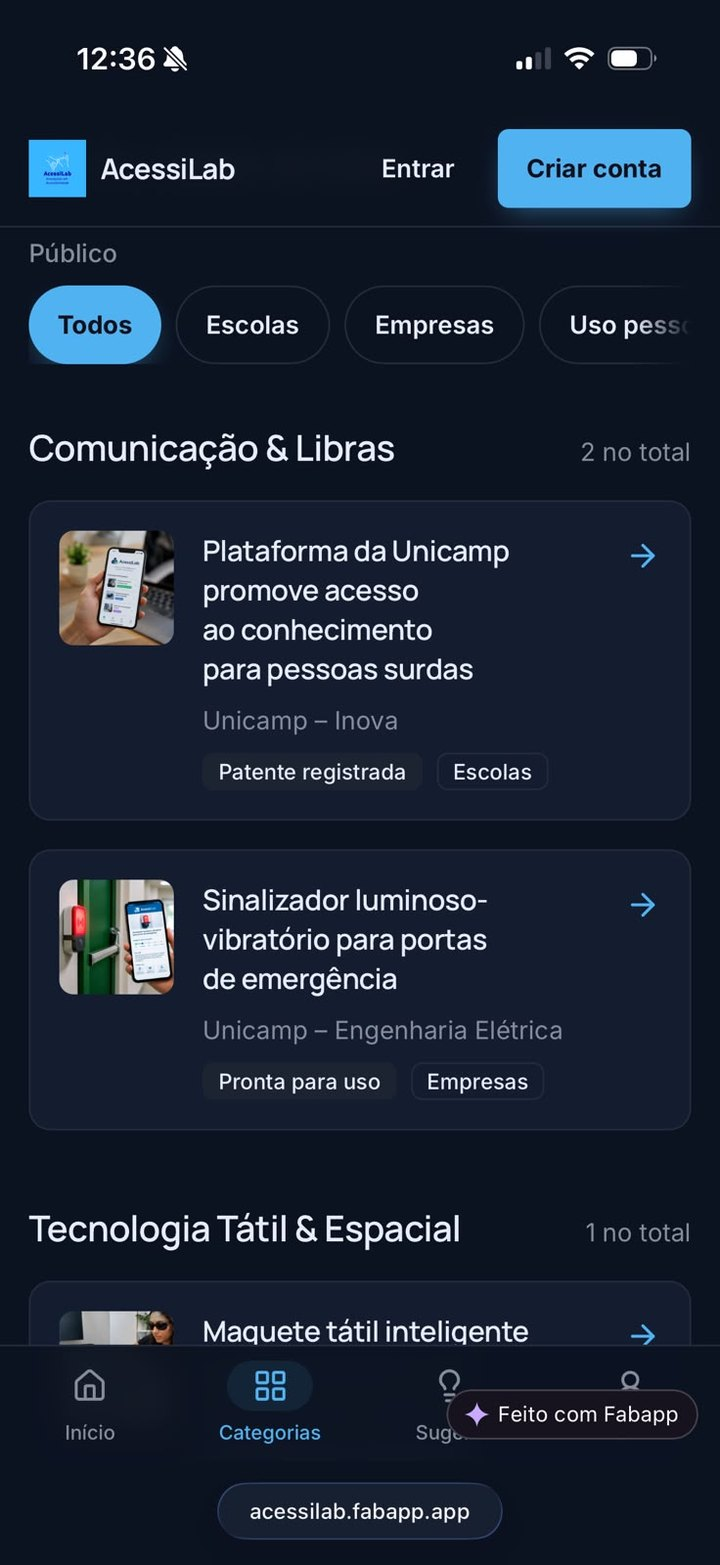
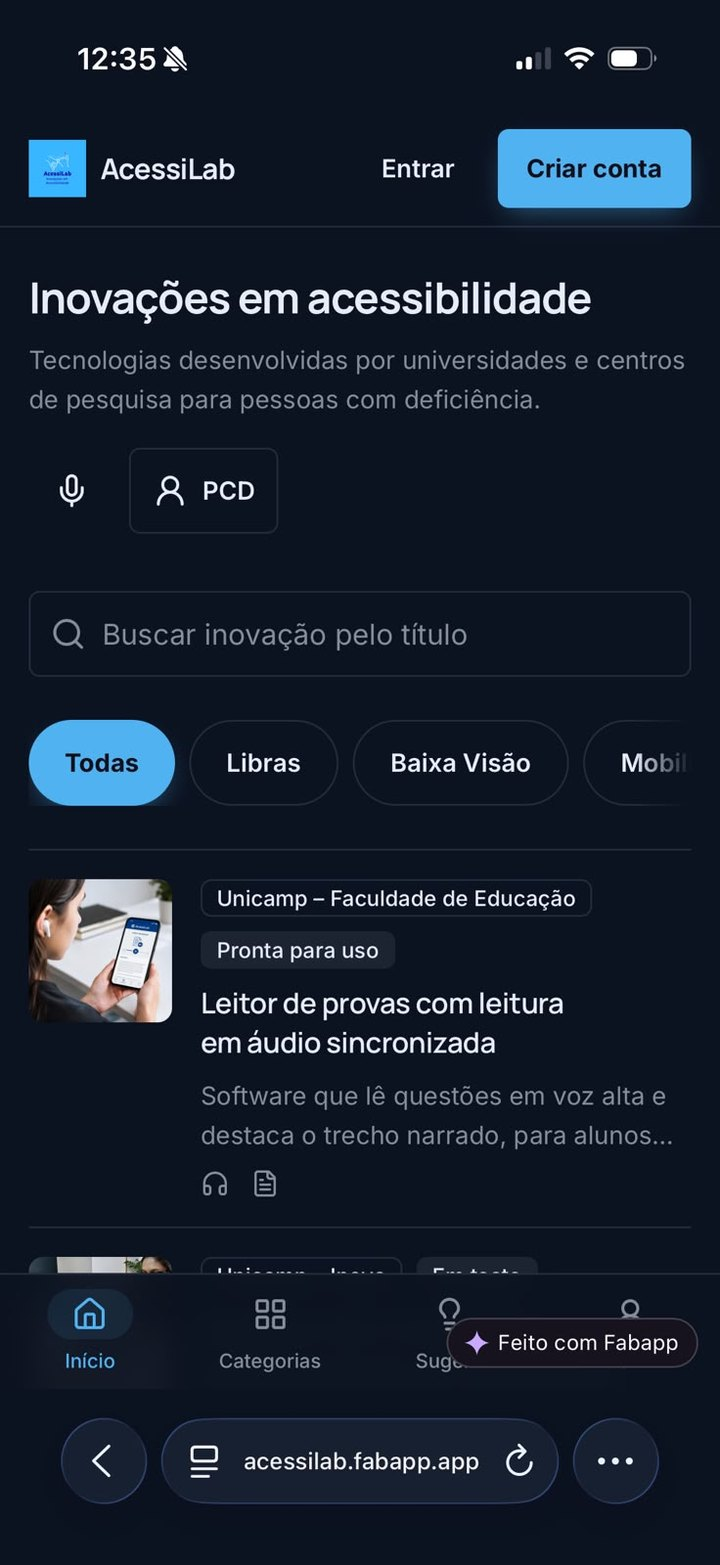
Add files via upload

diff --git a/index.html b/index.html
@@ -178,9 +178,9 @@
       <div class="case__media">
         <p class="mono medialabel">Mídia</p>
         <div class="gallery gallery--phones">
-          <figure class="shot shot--phone"><img data-src="assets/img/cases/a-1" alt="Tela inicial do AcessiLab" data-ph="Print do app · 1080×1920"></figure>
-          <figure class="shot shot--phone"><img data-src="assets/img/cases/a-2" alt="Lista de inovações no AcessiLab" data-ph="Print do app · 1080×1920"></figure>
-          <figure class="shot shot--phone"><img data-src="assets/img/cases/a-3" alt="Detalhe de uma inovação no AcessiLab" data-ph="Print do app · 1080×1920"></figure>
+          <figure class="shot shot--phone"><img data-src="assets/img/cases/a-1" alt="Tela inicial do AcessiLab: busca de inovações em acessibilidade com filtros por deficiência" data-ph="Print do app · 1080×1920"><figcaption class="mono">Início</figcaption></figure>
+          <figure class="shot shot--phone"><img data-src="assets/img/cases/a-2" alt="Categorias do AcessiLab: Comunicação e Libras, Tecnologia Tátil e Espacial" data-ph="Print do app · 1080×1920"><figcaption class="mono">Categorias</figcaption></figure>
+          <figure class="shot shot--phone"><img data-src="assets/img/cases/a-3" alt="Detalhe do Leitor de provas com leitura em áudio, com opções de áudio e Libras" data-ph="Print do app · 1080×1920"><figcaption class="mono">Detalhe com áudio e Libras</figcaption></figure>
         </div>
       </div>
     </div>
@@ -194,7 +194,7 @@
         <h3 class="h3">Requisições de RH automatizadas</h3>
         <p class="mono meta">RH LATAM · dsm-firmenich</p>
       </div>
-      <span class="lgpd mono"><svg class="ico"><use href="#lock"/></svg> Demonstração com dados fictícios — dados reais protegidos por LGPD</span>
+      <span class="lgpd mono"><svg class="ico"><use href="#lock"/></svg> Prints reais, sem dados pessoais — em conformidade com a LGPD</span>
     </header>
     <div class="case__body">
       <dl class="psfr">
@@ -256,7 +256,7 @@
         <h3 class="h3">132 aditivos em 1 clique</h3>
         <p class="mono meta">RH LATAM · dsm-firmenich</p>
       </div>
-      <span class="lgpd mono"><svg class="ico"><use href="#lock"/></svg> Demonstração com dados fictícios — dados reais protegidos por LGPD</span>
+      <span class="lgpd mono"><svg class="ico"><use href="#lock"/></svg> Prints reais, sem dados pessoais — em conformidade com a LGPD</span>
     </header>
     <div class="case__body">
       <dl class="psfr">
@@ -283,8 +283,9 @@
           <div class="flow__link"></div>
           <div class="flow__node flow__node--end"><b>Arquiva</b><small>documento assinado na pasta</small></div>
         </div>
-        <div class="gallery gallery--single">
-          <figure class="shot"><img data-src="assets/img/cases/c-1" alt="Fluxo no Power Automate: lê a tabela do Excel e, para cada linha, cria e arquiva o documento no SharePoint" data-ph="Print do fluxo · 1600×1000"><figcaption class="mono">Fluxo real no Power Automate — Excel → SharePoint, um documento por colaborador</figcaption></figure>
+        <div class="gallery">
+          <figure class="shot"><img data-src="assets/img/cases/c-1" alt="Fluxo no Power Automate: lê a tabela do Excel e, para cada linha, cria e arquiva o documento no SharePoint" data-ph="Print do fluxo · 1600×1000"><figcaption class="mono">Fluxo: Excel → SharePoint, um documento por linha</figcaption></figure>
+          <figure class="shot"><img data-src="assets/img/cases/c-2" alt="Modelo de documento com campos variáveis entre colchetes, como local de trabalho e nome do empregado" data-ph="Print do modelo · 1600×1000"><figcaption class="mono">Modelo com campos preenchidos pela automação</figcaption></figure>
         </div>
       </div>
     </div>
@@ -298,7 +299,7 @@
         <h3 class="h3">Agentes de IA com as políticas de RH</h3>
         <p class="mono meta">RH LATAM · dsm-firmenich</p>
       </div>
-      <span class="lgpd mono"><svg class="ico"><use href="#lock"/></svg> Demonstração com dados fictícios — dados reais protegidos por LGPD</span>
+      <span class="lgpd mono"><svg class="ico"><use href="#lock"/></svg> Prints reais, sem dados pessoais — em conformidade com a LGPD</span>
     </header>
     <div class="case__body">
       <dl class="psfr">
@@ -334,7 +335,7 @@
         <h3 class="h3">Gestão de carreira artística com IA</h3>
         <p class="mono meta">Pedro Bustamante · artista independente · <a class="metalink" href="https://www.youtube.com/channel/UCgmBhIti8OXbRtY2MWeuqDw" target="_blank" rel="noopener">Canal no YouTube <svg class="ico"><use href="#arrow-ur"/></svg></a></p>
       </div>
-      <span class="lgpd mono"><svg class="ico"><use href="#lock"/></svg> Demonstração com dados fictícios — dados reais protegidos por LGPD</span>
+      <span class="lgpd mono"><svg class="ico"><use href="#lock"/></svg> Prints reais, sem dados pessoais — em conformidade com a LGPD</span>
     </header>
     <div class="case__body">
       <dl class="psfr">
@@ -402,7 +403,7 @@
         <h3 class="h3">Agência de marketing · Bazooka</h3>
         <p class="mono meta">Bazooka · Tráfego pago &amp; social media</p>
       </div>
-      <span class="lgpd mono"><svg class="ico"><use href="#lock"/></svg> Demonstração com dados fictícios — dados reais protegidos por LGPD</span>
+      <span class="lgpd mono"><svg class="ico"><use href="#lock"/></svg> Dados de clientes protegidos pela LGPD</span>
     </header>
     <div class="case__body">
       <dl class="psfr">
@@ -457,7 +458,7 @@
     <ol class="linelist">
       <li class="reveal"><span class="num mono">01</span><h3>Ferramentas aprovadas</h3><p>Em contexto corporativo, uso apenas ferramentas homologadas pela empresa, como o Copilot do Microsoft 365.</p></li>
       <li class="reveal"><span class="num mono">02</span><h3>LGPD em primeiro lugar</h3><p>Dados pessoais de colaboradores e clientes não entram em ferramentas abertas.</p></li>
-      <li class="reveal"><span class="num mono">03</span><h3>Demonstrações fictícias</h3><p>Prints e fluxos deste portfólio foram recriados com dados fictícios.</p></li>
+      <li class="reveal"><span class="num mono">03</span><h3>Prints sem dados pessoais</h3><p>Os prints deste portfólio são reais, mas não exibem dados pessoais de colaboradores ou clientes.</p></li>
       <li class="reveal"><span class="num mono">04</span><h3>Pessoas no controle</h3><p>Aprovações e decisões continuam com pessoas — a automação cuida do repetitivo.</p></li>
     </ol>
   </div>

diff --git a/README.md b/README.md
@@ -16,9 +16,8 @@ O site encontra o arquivo sozinho, sem precisar mexer no código.
 | `assets/img/cases/c-1.jpg`, `c-2.jpg` | 132 aditivos | 1600×1000 |
 | `assets/img/cases/d-1.jpg`, `d-2.jpg` | Agentes Copilot | 1600×1000 |
 | `assets/img/cases/e-1.jpg`, `e-2.jpg` | Carreira artística | 1600×1000 |
-| `assets/img/cases/f-1.jpg`, `f-2.jpg` | Agência de marketing | 1600×1000 |
 
-Lembrete: nos cases 02 a 06, use **apenas prints com dados fictícios**.
+Lembrete: nos cases 02 a 06, use apenas prints **sem dados pessoais** (LGPD).
 
 ## Estrutura
 ```
